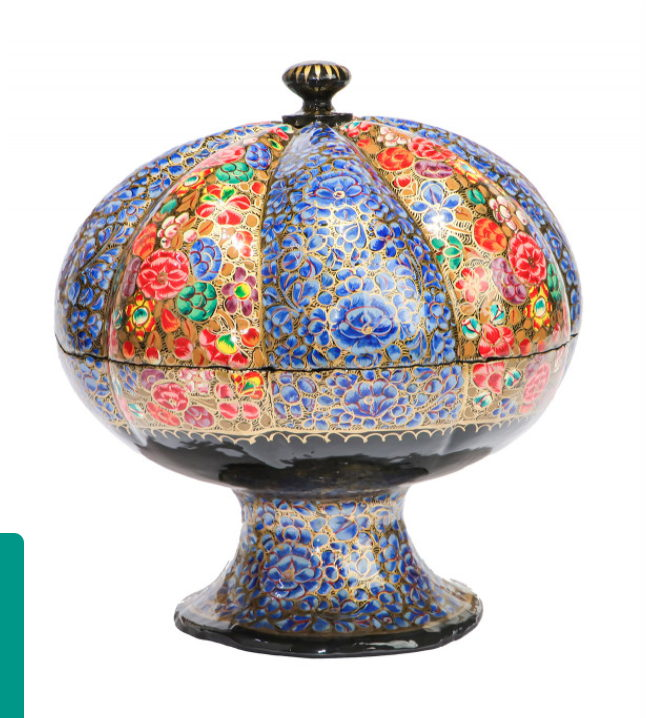
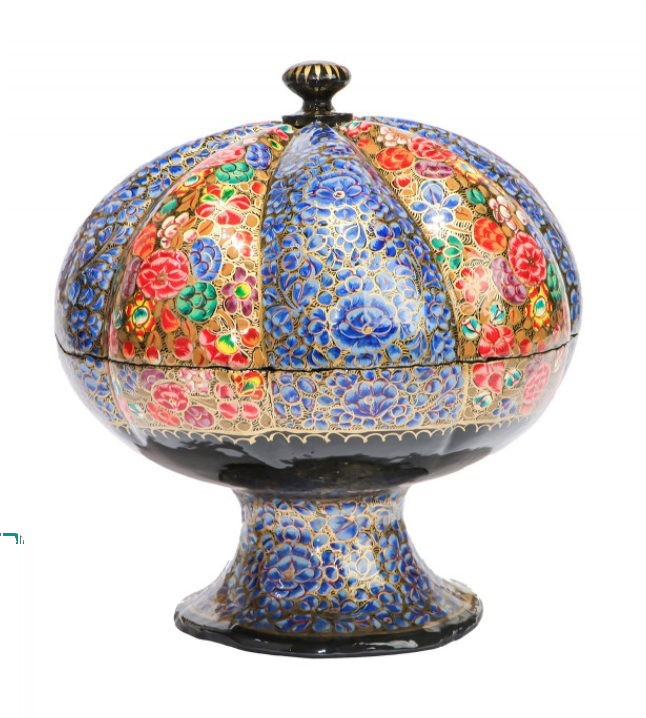
fix(papier-mache): replace the stock-watermarked houseboat photo and repair the gallery
The Dal Lake Houseboat listing — and its duplicate, the Tissue Box Holder —
were showing a stock photo with a seller's caption burned into the artwork
('Paper Mache Flat Box 7x4 inch jam...'). That bar sat on top of the object,
so it could not be painted out without destroying the piece behind it.

Both now use a clean shot of an actual papier-mache houseboat: floral Naqash
windows, carved balustrade, Shikara, which is what the description claims.

Two further faults in the same set:

- The papier-mache gallery was hardcoded to four fixed files, so all twenty
  listings showed the same five pictures regardless of the object. It now
  draws from the piece's own guild, skipping the hero shot and any repeat.
- The fallback gallery filled two of its five tiles with the hero image
  repeated, which read as a rendering fault rather than a design. It now
  borrows from the same guild instead.

Also cleared a solid teal strip (rgb 0,151,136) bleeding down the left edge
of the urn photos.

diff --git a/product.html b/product.html
@@ -1537,19 +1537,36 @@
           { label: "Full Spread", img: "assets/products/kani_05.jpg" }
         ];
       } else if (p.guild === "papier-mache") {
+        /* Pull from the piece's own guild so the gallery shows different
+           objects rather than the same four vessels on all twenty listings.
+           Never repeat the hero shot, and never reuse a tile twice. */
+        const picked = [];
+        for (const cand of getAllProducts()) {
+          if (picked.length >= 3) break;
+          if (cand.guild !== p.guild || cand.id === p.id) continue;
+          if (cand.image === p.image || picked.includes(cand.image)) continue;
+          picked.push(cand.image);
+        }
         thumbs = [
           { label: "Craft View", img: p.image },
-          { label: "Naqash Urn", img: p.image === "assets/products/papier_01.jpg" ? "assets/products/papier_02.jpg" : "assets/products/papier_01.jpg" },
-          { label: "Chinar Box", img: "assets/products/papier_03.jpg" },
-          { label: "Gold Leaf Art", img: "assets/products/papier_05.jpg" },
+          { label: "Guild Study I", img: picked[0] || p.image },
+          { label: "Guild Study II", img: picked[1] || p.image },
+          { label: "Gold Leaf Art", img: picked[2] || "assets/products/papier_05.jpg" },
           { label: "GI Certificate", img: "assets/products/thumb_cert.jpg" }
         ];
       } else {
+        /* The fallback gallery used to fill two of its five tiles with the hero
+           image repeated, which read as a rendering fault. Borrow from the
+           same guild instead. */
+        const pool = getAllProducts()
+          .filter(x => x.guild === p.guild && x.id !== p.id && x.image !== p.image)
+          .map(x => x.image);
         thumbs = [
           { label: p.guild === "walnut" ? "Editorial View" : "Full View", img: p.image },
-          { label: p.guild === "walnut" ? "Carving Detail" : (p.guild === "silk-rugs" ? "Knot Detail" : "Craft Detail"), img: p.image },
-          { label: "Styling View", img: "assets/image_1.jpg" },
-          { label: "Heritage Look", img: "assets/image_6.jpg" },
+          { label: p.guild === "walnut" ? "Carving Detail" : (p.guild === "silk-rugs" ? "Knot Detail" : "Craft Detail"),
+            img: pool[0] || p.image },
+          { label: "Styling View", img: pool[1] || "assets/image_1.jpg" },
+          { label: "Heritage Look", img: pool[2] || "assets/image_6.jpg" },
           { label: "GI Certificate", img: "assets/products/thumb_cert.jpg" }
         ];
       }
